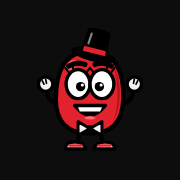
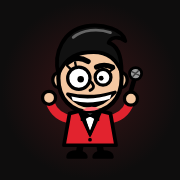
Nouvelle mascotte animateur et nouvel accueil
Mascotte redessinée en animateur de jeu télé extravagant, apparition
brutale (flash et secousse) à un emplacement tiré au hasard, page
d'accueil avec la mascotte en grand qui réagit au toucher, nouvelle
icône. Cache du service worker passé en v2.

Claude-Session: https://claude.ai/code/session_018y4Ztmge4fHGh2s4v4CH5W

Changed region(s): [[0.1944, 0.1389, 0.8056, 0.8333]]

diff --git a/index.html b/index.html
@@ -86,6 +86,27 @@ button:focus-visible, input:focus-visible { outline: 3px solid var(--ink); outli
 .mode .tag { font-family: var(--f-label); font-size: .7rem; text-transform: uppercase; letter-spacing: .08em; opacity: .85; }
 .fine { margin: 0; font-size: .78rem; color: var(--muted); text-align: center; }
 
+/* Accueil : titre, mascotte géante sur fond de rayons, choix du mode */
+.hero { display: grid; justify-items: center; gap: 6px; text-align: center; padding-top: 8px; }
+.hero-title { display: grid; justify-items: center; line-height: 1; gap: 2px; margin: 0; }
+.hero-title .t1 { font-size: clamp(1.6rem, 7vw, 2.6rem); letter-spacing: .04em; }
+.hero-title .t2 { font-family: var(--f-score); font-weight: 400; color: var(--red); font-size: clamp(3.6rem, 19vw, 7rem); transform: rotate(-4deg); text-shadow: 4px 5px 0 #000, -2px -2px 0 #000, 2px -2px 0 #000, -2px 2px 0 #000; }
+.hero-stage { overflow: hidden; position: relative; width: min(300px, 78vw); aspect-ratio: 1; display: grid; place-items: center; margin-top: 6px; }
+.rays { position: absolute; inset: 0; border-radius: 50%; background: repeating-conic-gradient(from 0deg, rgba(226,35,46,.55) 0deg 10deg, transparent 10deg 20deg); -webkit-mask: radial-gradient(circle, #000 25%, transparent 70%); mask: radial-gradient(circle, #000 25%, transparent 70%); animation: spin 18s linear infinite; }
+@keyframes spin { to { transform: rotate(360deg); } }
+.mascot.hero { position: relative; right: auto; bottom: auto; left: auto; top: auto; width: 74%; transform: none; pointer-events: auto; z-index: 1; background: none; border: 0; padding: 0; cursor: pointer; }
+.mascot.hero svg { filter: drop-shadow(6px 8px 0 rgba(0,0,0,.6)); }
+.mascot.hero .rig { animation: m-bob 2.4s ease-in-out infinite; }
+.mascot.hero.wave .arm-r { animation: m-wave .6s ease-in-out .4s infinite; }
+.mascot.hero.cheer .rig { animation: m-jump .6s ease-out 3; }
+.hero-bubble { position: relative; z-index: 2; margin-top: 14px; margin-bottom: -18px; max-width: min(280px, 80vw); background: var(--pill); color: var(--red); border: 3px solid #000; border-radius: 18px; padding: 10px 16px; font-family: var(--f-label); text-transform: uppercase; letter-spacing: .03em; font-size: .85rem; line-height: 1.25; box-shadow: 4px 5px 0 rgba(0,0,0,.55); }
+.hero-bubble::after { content: ""; position: absolute; left: 50%; bottom: -12px; width: 18px; height: 18px; margin-left: -9px; background: var(--pill); border-right: 3px solid #000; border-bottom: 3px solid #000; transform: rotate(45deg); }
+.hero-bubble.pop { animation: b-pop .3s cubic-bezier(.2,1.6,.4,1); }
+@keyframes m-bob { 0%, 100% { transform: translateY(0); } 50% { transform: translateY(-6px); } }
+.hero-tag { margin: 4px 0 0; font-weight: 800; color: var(--muted); font-size: 1rem; }
+.mode-line { font-weight: 600; font-size: .9rem; line-height: 1.4; }
+.mode { align-content: center; }
+
 /* Joueurs */
 .players { display: grid; gap: 10px; }
 .player-row { display: flex; gap: 10px; align-items: center; }
@@ -221,15 +242,34 @@ button:focus-visible, input:focus-visible { outline: 3px solid var(--ink); outli
 }
 /* Mascotte : surgit en bas à droite à chaque changement d'écran, réagit, puis repart */
 .mascot { position: fixed; right: 10px; bottom: calc(8px + env(safe-area-inset-bottom, 0px)); width: 104px; z-index: 50; pointer-events: none; transform: translateY(150%); }
-.mascot.show { animation: m-in .6s ease-out forwards; }
-.mascot.leave { animation: m-out .35s ease-in forwards; }
+.mascot.show { animation: m-in .32s cubic-bezier(.2,.9,.3,1) forwards; }
+.mascot .bubble { transform-origin: 100% 100%; }
+/* Emplacements tirés au hasard à chaque apparition ; à gauche, la mascotte est retournée et la bulle passe à droite */
+.mascot.pos-br, .mascot.pos-bl { top: auto; bottom: calc(8px + env(safe-area-inset-bottom, 0px)); }
+.mascot.pos-tr, .mascot.pos-tl { bottom: auto; top: calc(64px + env(safe-area-inset-top, 0px)); }
+.mascot.pos-mr, .mascot.pos-ml { bottom: auto; top: 42%; }
+.mascot.pos-br, .mascot.pos-tr, .mascot.pos-mr { right: 10px; left: auto; }
+.mascot.pos-bl, .mascot.pos-tl, .mascot.pos-ml { left: 10px; right: auto; }
+.mascot.pos-bl svg, .mascot.pos-tl svg, .mascot.pos-ml svg { transform: scaleX(-1); }
+.mascot.pos-bl .bubble, .mascot.pos-tl .bubble, .mascot.pos-ml .bubble { right: auto; left: 76%; border-radius: 16px 16px 16px 4px; transform-origin: 0 100%; }
+.mascot.pos-tr .bubble, .mascot.pos-tl .bubble { bottom: auto; top: 86%; }
+.mascot.pos-tr .bubble { border-radius: 16px 4px 16px 16px; transform-origin: 100% 0; }
+.mascot.pos-tl .bubble { border-radius: 4px 16px 16px 16px; transform-origin: 0 0; }
+.mascot.show .bubble { animation: b-pop .25s cubic-bezier(.2,1.6,.4,1) .12s both; }
+@keyframes b-pop { from { transform: scale(0) rotate(-12deg); } to { transform: scale(1) rotate(0); } }
+.mascot::before { content: ""; position: absolute; inset: -30% -20% -10%; background: radial-gradient(circle, rgba(255,255,255,.9) 0 18%, rgba(226,35,46,.6) 35%, transparent 62%); transform: scale(0); opacity: 0; pointer-events: none; }
+.mascot.show::before { animation: m-flash .35s ease-out; }
+@keyframes m-flash { 0% { transform: scale(.2); opacity: 1; } 100% { transform: scale(1.6); opacity: 0; } }
+body.jolt #app { animation: jolt .28s linear; }
+@keyframes jolt { 0%, 100% { transform: translate(0, 0); } 20% { transform: translate(-6px, 3px); } 40% { transform: translate(5px, -4px); } 60% { transform: translate(-4px, 2px); } 80% { transform: translate(3px, -1px); } }
+.mascot.leave { animation: m-out .18s ease-in forwards; }
 .mascot .bubble { transition: opacity .15s, transform .15s; }
 .mascot.leave .bubble { opacity: 0; transform: scale(.6); }
 .mascot svg { width: 100%; height: auto; display: block; overflow: visible; filter: drop-shadow(4px 5px 0 rgba(0,0,0,.55)); }
 .mascot .bubble { position: absolute; right: 76%; bottom: 84%; border: 3px solid #000; width: max-content; max-width: min(220px, 60vw); background: var(--pill); color: var(--red); font-family: var(--f-label); text-transform: uppercase; font-size: .78rem; letter-spacing: .03em; line-height: 1.25; padding: 10px 14px; border-radius: 16px 16px 4px 16px; box-shadow: 0 8px 20px rgba(0,0,0,.55); }
 .mascot .rig { transform-box: view-box; transform-origin: 62px 142px; }
-.mascot .arm-l { transform-box: view-box; transform-origin: 27px 88px; transition: transform .3s; }
-.mascot .arm-r { transform-box: view-box; transform-origin: 97px 88px; transition: transform .3s; }
+.mascot .arm-l { transform-box: view-box; transform-origin: 42px 102px; transition: transform .3s; }
+.mascot .arm-r { transform-box: view-box; transform-origin: 82px 102px; transition: transform .3s; }
 .mascot .brows, .mascot .pupils { transition: transform .3s; }
 .mascot .m-open, .mascot .m-sad, .mascot .m-wavy, .mascot .drunk-only { display: none; }
 .mascot.drunk .drunk-only { display: inline; }
@@ -246,8 +286,8 @@ button:focus-visible, input:focus-visible { outline: 3px solid var(--ink); outli
 @keyframes m-sway { 0%, 100% { transform: rotate(-9deg) translateX(-2px); } 50% { transform: rotate(8deg) translateX(3px); } }
 @keyframes m-twinkle { 0%, 100% { transform: scale(0) rotate(0); } 50% { transform: scale(1.2) rotate(45deg); } }
 @keyframes m-hic { 0% { transform: translateY(6px) scale(.4); opacity: 0; } 30% { opacity: 1; } 100% { transform: translateY(-14px) scale(1); opacity: 0; } }
-@keyframes m-in { 0% { transform: translateY(150%) rotate(-200deg) scale(.5); } 60% { transform: translateY(-8%) rotate(12deg) scale(1.15, .9); } 80% { transform: translateY(0) rotate(-4deg) scale(.95, 1.06); } 100% { transform: translateY(0) rotate(0) scale(1); } }
-@keyframes m-out { 0% { transform: translateY(0) scale(1); } 30% { transform: translateY(-10%) scale(.9, 1.12); } 100% { transform: translateY(260%); visibility: hidden; } }
+@keyframes m-in { 0% { transform: scale(.1) rotate(-25deg); } 55% { transform: scale(1.45) rotate(8deg); } 75% { transform: scale(.88, 1.12) rotate(-4deg); } 90% { transform: scale(1.06, .95); } 100% { transform: scale(1) rotate(0); } }
+@keyframes m-out { 0% { transform: scale(1); } 40% { transform: scale(1.2, .8); } 100% { transform: scale(0) rotate(30deg); visibility: hidden; } }
 @keyframes m-wave { 0%, 100% { transform: rotate(-10deg); } 50% { transform: rotate(25deg); } }
 @keyframes m-jump { 0%, 100% { transform: translateY(0) scaleY(1); } 15% { transform: translateY(2px) scaleY(.92); } 45% { transform: translateY(-16px) scaleY(1.04); } 70% { transform: translateY(0) scaleY(.96); } }
 @keyframes m-shake { 0%, 100% { transform: translateX(0) rotate(0); } 20% { transform: translateX(-4px) rotate(-4deg); } 40% { transform: translateX(4px) rotate(4deg); } 60% { transform: translateX(-3px) rotate(-3deg); } 80% { transform: translateX(3px) rotate(2deg); } }
@@ -271,13 +311,14 @@ button:focus-visible, input:focus-visible { outline: 3px solid var(--ink); outli
 .mascot.sad .arm-l { transform: rotate(-115deg); } .mascot.sad .arm-r { transform: rotate(115deg); }
 .mascot.sad .rig { animation: m-tilt 1.6s ease-in-out .3s 1; }
 .mascot.point .arm-r { transform: rotate(-55deg); }
-.mascot .brow-l { transform-box: view-box; transform-origin: 46px 41px; transition: transform .3s; }
-.mascot .brow-r { transform-box: view-box; transform-origin: 78px 41px; transition: transform .3s; }
+.mascot .brow-l { transform-box: view-box; transform-origin: 49px 38px; transition: transform .3s; }
+.mascot .brow-r { transform-box: view-box; transform-origin: 77px 44px; transition: transform .3s; }
 @media (max-width: 640px) { .mascot { width: 82px; } .mascot .bubble { font-size: .7rem; } }
 
 @media (prefers-reduced-motion: reduce) {
   .cell { transition: none; }
-  .mascot, .mascot * { animation: none !important; }
+  .mascot, .mascot *, .mascot::before, body.jolt #app, .rays { animation: none !important; }
+  .mascot.hero { opacity: 1; }
   .mascot { transform: none; opacity: 0; transition: opacity .2s; }
   .mascot.show { opacity: 1; }
 }
@@ -289,56 +330,57 @@ button:focus-visible, input:focus-visible { outline: 3px solid var(--ink); outli
   <div class="bubble" id="mascotLine"></div>
   <svg viewBox="-6 -14 136 168">
     <g class="sway"><g class="rig" stroke="#000" stroke-linecap="round" stroke-linejoin="round">
-      <!-- jambes et baskets -->
-      <path d="M50 118 L47 136 M74 118 L77 136" stroke-width="5" fill="none"/>
-      <path d="M33 140 Q33 131 46 132 Q56 133 57 140 Z" fill="#f4f2f0" stroke-width="4"/>
-      <path d="M67 140 Q68 133 78 132 Q91 131 91 140 Z" fill="#f4f2f0" stroke-width="4"/>
-      <path d="M38 136 L52 136 M72 136 L86 136" stroke="#e2232e" stroke-width="3"/>
-      <!-- bras en caoutchouc et gants -->
-      <g class="arm-l"><path d="M27 88 Q12 86 10 68" stroke-width="5" fill="none"/><circle cx="10" cy="64" r="8.5" fill="#f4f2f0" stroke-width="4"/><path d="M6 60 L8 64 M10 58 L11 63" stroke-width="2" fill="none"/></g>
-      <g class="arm-r"><path d="M97 88 Q112 86 114 68" stroke-width="5" fill="none"/><circle cx="114" cy="64" r="8.5" fill="#f4f2f0" stroke-width="4"/><path d="M118 60 L116 64 M114 58 L113 63" stroke-width="2" fill="none"/></g>
-      <!-- corps en haricot -->
-      <path d="M62 26 C94 26 102 52 101 82 C100 110 86 122 62 122 C38 122 22 110 22 82 C22 52 30 26 62 26 Z" fill="#e2232e" stroke-width="5"/>
-      <path d="M90 44 C99 60 100 92 88 110 C96 96 96 64 90 44 Z" fill="#b3121b" stroke="none"/>
-      <ellipse cx="40" cy="42" rx="8" ry="4.5" fill="#fff" opacity=".35" stroke="none" transform="rotate(-35 40 42)"/>
-      <!-- chapeau haut-de-forme penché -->
-      <g transform="rotate(14 66 30)">
-        <ellipse cx="66" cy="30" rx="25" ry="6" fill="#000" stroke-width="3"/>
-        <path d="M52 30 L54 2 Q66 -2 78 2 L80 30 Z" fill="#000" stroke-width="3"/>
-        <path d="M53 22 L79 22 L79.6 28 L52.6 28 Z" fill="#e2232e" stroke="none"/>
-        <path d="M58 6 L57 18" stroke="#fff" stroke-width="2.5" opacity=".5" fill="none"/>
-      </g>
-      <!-- grands yeux -->
-      <ellipse cx="48" cy="64" rx="14" ry="17" fill="#fff" stroke-width="4"/>
-      <ellipse cx="76" cy="64" rx="14" ry="17" fill="#fff" stroke-width="4"/>
-      <g class="pupils" stroke="none"><circle cx="51" cy="67" r="5.5" fill="#000"/><circle cx="73" cy="67" r="5.5" fill="#000"/><circle cx="53" cy="65" r="1.8" fill="#fff"/><circle cx="75" cy="65" r="1.8" fill="#fff"/></g>
-      <path d="M37 50 L33 45 M43 47.5 L41 42 M58 50 L62 45 M66 50 L62 45 M81 47.5 L83 42 M87 50 L91 45" stroke-width="2.5" fill="none" class="lashes"/>
+      <!-- jambes et chaussures vernies -->
+      <path d="M52 128 L50 140 M72 128 L74 140" stroke-width="7" fill="none"/>
+      <path d="M38 143 Q38 136 50 137 Q58 138 58 143 Z M66 143 Q66 138 74 137 Q86 136 86 143 Z" fill="#000" stroke-width="3"/>
+      <!-- bras : main gauche gantée, main droite tenant le micro -->
+      <g class="arm-l"><path d="M42 102 Q25 100 19 84" stroke="#e2232e" stroke-width="9" fill="none"/><path d="M42 102 Q25 100 19 84" stroke-width="2" fill="none" opacity="0"/><circle cx="18" cy="79" r="7" fill="#f4c7a1" stroke-width="3.5"/></g>
+      <g class="arm-r"><path d="M82 102 Q99 100 105 84" stroke="#e2232e" stroke-width="9" fill="none"/>
+        <path d="M104 78 L110 58" stroke-width="5" fill="none"/><circle cx="111" cy="53" r="6.5" fill="#9a9a9a" stroke-width="3"/><path d="M107 51 L115 55 M108 56 L114 50" stroke-width="1.5" fill="none" opacity=".6"/>
+        <circle cx="106" cy="80" r="7" fill="#f4c7a1" stroke-width="3.5"/></g>
+      <!-- veste de présentateur -->
+      <path d="M40 96 Q62 88 84 96 L90 130 L34 130 Z" fill="#e2232e" stroke-width="4"/>
+      <path d="M52 94 L62 118 L72 94 Z" fill="#fff" stroke-width="3"/>
+      <path d="M50 94 L62 120 L56 100 Z M74 94 L62 120 L68 100 Z" fill="#000" stroke-width="2"/>
+      <circle cx="62" cy="124" r="2" fill="#000" stroke="none"/>
+      <path d="M62 98 L53 93 L53 103 Z M62 98 L71 93 L71 103 Z" fill="#000" stroke-width="2"/>
+      <!-- oreilles et tête -->
+      <ellipse cx="28" cy="60" rx="6" ry="8" fill="#f4c7a1" stroke-width="3.5"/>
+      <ellipse cx="96" cy="60" rx="6" ry="8" fill="#f4c7a1" stroke-width="3.5"/>
+      <path d="M62 22 C88 22 96 40 96 58 C96 80 82 94 62 94 C42 94 28 80 28 58 C28 40 36 22 62 22 Z" fill="#f4c7a1" stroke-width="4.5"/>
+      <!-- banane gominée -->
+      <path d="M28 54 C22 30 34 6 58 2 C76 -1 98 6 100 18 C92 12 84 14 82 20 C90 22 96 32 96 52 C90 36 80 30 66 30 C50 30 36 34 28 54 Z" fill="#111" stroke-width="4"/>
+      <path d="M44 14 C54 6 70 4 84 9" stroke="#fff" stroke-width="3" fill="none" opacity=".35"/>
+      <!-- yeux dépareillés -->
+      <circle cx="50" cy="58" r="12" fill="#fff" stroke-width="3.5"/>
+      <circle cx="76" cy="57" r="8.5" fill="#fff" stroke-width="3.5"/>
+      <g class="pupils" stroke="none"><circle cx="52" cy="59" r="3.5" fill="#000"/><circle cx="74" cy="58" r="2.6" fill="#000"/></g>
+      <path class="lashes" d="M41 48 L37 44 M47 46 L46 41 M84 50 L88 47" stroke-width="2.5" fill="none"/>
       <g class="drunk-only">
-        <path d="M34 63 C34 42 62 42 62 63 Q48 58 34 63 Z" fill="#e2232e" stroke-width="3.5"/>
-        <path d="M62 63 C62 42 90 42 90 63 Q76 58 62 63 Z" fill="#e2232e" stroke-width="3.5"/>
-        <ellipse cx="33" cy="86" rx="7" ry="4.5" fill="#ff8fa0" stroke="none" opacity=".9"/>
-        <ellipse cx="91" cy="86" rx="7" ry="4.5" fill="#ff8fa0" stroke="none" opacity=".9"/>
+        <path d="M37.5 58 A12.5 12.5 0 0 1 62.5 58 Q50 54 37.5 58 Z" fill="#f4c7a1" stroke-width="3"/>
+        <path d="M67 57 A9 9 0 0 1 85 57 Q76 54 67 57 Z" fill="#f4c7a1" stroke-width="3"/>
+        <ellipse cx="38" cy="76" rx="7" ry="4.5" fill="#ff7f8f" stroke="none" opacity=".9"/>
+        <ellipse cx="88" cy="74" rx="6" ry="4" fill="#ff7f8f" stroke="none" opacity=".9"/>
       </g>
       <g class="brows">
-        <path class="brow-l" d="M37 43 Q46 37 56 41" stroke-width="6" fill="none"/>
-        <path class="brow-r" d="M68 41 Q78 37 87 43" stroke-width="6" fill="none"/>
+        <path class="brow-l" d="M38 41 Q48 33 60 40" stroke-width="5.5" fill="none"/>
+        <path class="brow-r" d="M69 46 Q77 42 86 46" stroke-width="5.5" fill="none"/>
       </g>
+      <!-- nez -->
+      <path d="M63 62 Q69 68 62 71" stroke-width="3" fill="none"/>
       <!-- bouches -->
-      <g class="m-smile"><path d="M44 89 Q62 112 80 89 Z" fill="#000" stroke-width="4"/><path d="M48 91 L76 91 L74 96 L50 96 Z" fill="#fff" stroke="none"/><path d="M55 104 Q62 99 69 104 Q62 107 55 104 Z" fill="#ff6b73" stroke="none"/></g>
-      <g class="m-open"><ellipse cx="62" cy="96" rx="9" ry="11" fill="#000" stroke-width="3"/><ellipse cx="62" cy="102" rx="5" ry="3.5" fill="#ff6b73" stroke="none"/></g>
-      <path class="m-sad" d="M49 101 Q62 88 75 101" stroke-width="4.5" fill="none"/>
-      <path class="m-wavy" d="M48 96 q3.5 -4 7 0 t7 0 t7 0 t7 0" stroke-width="4" fill="none"/>
-      <!-- nœud papillon -->
-      <path d="M62 116 L48 108 L48 124 Z M62 116 L76 108 L76 124 Z" fill="#f4f2f0" stroke-width="3.5"/>
-      <circle cx="62" cy="116" r="4" fill="#000" stroke="none"/>
+      <g class="m-smile"><path d="M38 75 Q62 102 89 73 Q62 81 38 75 Z" fill="#000" stroke-width="3.5"/><path d="M42 77.5 Q62 83 85 75.5 L83.5 80 Q62 87 43.5 82 Z" fill="#fff" stroke="none"/><path d="M54 92 Q63 86 72 91 Q63 95 54 92 Z" fill="#ff6b73" stroke="none"/></g>
+      <g class="m-open"><ellipse cx="63" cy="84" rx="10" ry="11" fill="#000" stroke-width="3"/><ellipse cx="63" cy="90" rx="6" ry="4" fill="#ff6b73" stroke="none"/></g>
+      <path class="m-sad" d="M48 90 Q63 77 78 90" stroke-width="4.5" fill="none"/>
+      <path class="m-wavy" d="M46 84 q4 -4 8 0 t8 0 t8 0 t8 0" stroke-width="4" fill="none"/>
     </g></g>
     <g class="sparkles">
       <g transform="translate(4 18)"><path class="spark" d="M0 -9 L2.5 -2.5 L9 0 L2.5 2.5 L0 9 L-2.5 2.5 L-9 0 L-2.5 -2.5 Z" fill="#f4f2f0" stroke="#000" stroke-width="2"/></g>
-      <g transform="translate(118 10)"><path class="spark s2" d="M0 -7 L2 -2 L7 0 L2 2 L0 7 L-2 2 L-7 0 L-2 -2 Z" fill="#e2232e" stroke="#000" stroke-width="2"/></g>
-      <g transform="translate(124 104)"><path class="spark s3" d="M0 -8 L2 -2 L8 0 L2 2 L0 8 L-2 2 L-8 0 L-2 -2 Z" fill="#f4f2f0" stroke="#000" stroke-width="2"/></g>
+      <g transform="translate(122 24)"><path class="spark s2" d="M0 -7 L2 -2 L7 0 L2 2 L0 7 L-2 2 L-7 0 L-2 -2 Z" fill="#e2232e" stroke="#000" stroke-width="2"/></g>
+      <g transform="translate(124 108)"><path class="spark s3" d="M0 -8 L2 -2 L8 0 L2 2 L0 8 L-2 2 L-8 0 L-2 -2 Z" fill="#f4f2f0" stroke="#000" stroke-width="2"/></g>
     </g>
     <g class="drunk-only hic" fill="#f4f2f0" stroke="#000" stroke-width="2">
-      <circle cx="104" cy="40" r="4"/><circle class="h2" cx="110" cy="30" r="5.5"/><circle class="h3" cx="104" cy="18" r="3"/>
+      <circle cx="100" cy="30" r="4"/><circle class="h2" cx="108" cy="18" r="5.5"/><circle class="h3" cx="102" cy="4" r="3"/>
     </g>
   </svg>
 </div>
@@ -1340,7 +1382,8 @@ function render() {
 /* ---------- Mascotte ---------- */
 const mascotEl = document.getElementById("mascot");
 const mascotLine = document.getElementById("mascotLine");
-let mascotKey = null, mascotTimer = null;
+let mascotKey = null, mascotTimer = null, mascotPos = "pos-br";
+const POSITIONS = ["pos-br", "pos-bl", "pos-tr", "pos-tl", "pos-mr", "pos-ml"];
 
 // Humeur et réplique selon l'écran affiché
 function mood() {
@@ -1377,14 +1420,19 @@ function react() {
   const key = S.rules ? "rules" : [S.screen, S.turn, S.current ? S.current.t + "-" + S.current.c : ""].join("|");
   if (key === mascotKey) return;
   mascotKey = key;
-  const [m, line] = mood();
   clearTimeout(mascotTimer);
+  if (S.screen === "home" && !S.rules) { mascotEl.className = "mascot"; return; } // la mascotte est déjà en grand sur l'accueil
+  const [m, line] = mood();
   const drunk = hard() && S.screen !== "home";
   mascotLine.textContent = drunk && line ? slur(line) : line;
   mascotLine.hidden = !line;
-  mascotEl.className = "mascot " + m + (drunk ? " drunk" : "");
+  mascotPos = pick(POSITIONS.filter(x => x !== mascotPos));
+  mascotEl.className = "mascot " + m + (drunk ? " drunk" : "") + " " + mascotPos;
   void mascotEl.offsetWidth; // relance l'animation d'entrée
   mascotEl.classList.add("show");
+  // Petite secousse de l'écran à l'arrivée de la mascotte
+  document.body.classList.remove("jolt");
+  setTimeout(() => { document.body.classList.add("jolt"); setTimeout(() => document.body.classList.remove("jolt"), 300); }, 170);
   mascotTimer = setTimeout(() => {
     mascotEl.classList.replace("show", "leave");
   }, 2600);
@@ -1443,31 +1491,28 @@ function rules() {
 function home() {
   const saved = load();
   const resume = saved && ["board", "question", "verdict"].includes(saved.screen);
-  return `<section class="screen">
-    <div class="stack">
-      <span class="eyebrow">Quiz entre amis</span>
-      <h1>Le Risque <span>Tout</span></h1>
-      <p class="lead">Choisissez une question de x1 à x5 selon la difficulté. Bonne réponse, vous gagnez. Mauvaise réponse, vous perdez. Et si vous osez le Risque Tout…</p>
+  return `<section class="screen home">
+    <div class="hero">
+      <h1 class="hero-title"><span class="t1">Le Risque</span><span class="t2">Tout</span></h1>
+      <div class="hero-bubble pop" id="heroLine">Prêts à tout risquer ?</div>
+      <div class="hero-stage">
+        <div class="rays" aria-hidden="true"></div>
+        <button class="mascot hero show wave" id="heroMascot" aria-label="Faire réagir la mascotte">
+          ${document.querySelector("#mascot svg").outerHTML}
+        </button>
+      </div>
+      <p class="hero-tag">Le quiz où l'on peut tout gagner… ou tout perdre.</p>
     </div>
     <div class="modes">
       <button class="mode" data-mode="classique">
-        <span class="tag">Points</span>
+        <span class="tag">Des points</span>
         <span class="name">Classique</span>
-        <ul>
-          <li>Bonne réponse : + les points de la case</li>
-          <li>Mauvaise réponse : − les points de la case</li>
-          <li>Risque Tout : score doublé, ou remis à zéro</li>
-        </ul>
+        <span class="mode-line">Gagnez des points, doublez-les au Risque Tout… ou retombez à zéro.</span>
       </button>
       <button class="mode hard" data-mode="hardcore">
         <span class="tag">Jeu à boire</span>
         <span class="name">Hardcore</span>
-        <ul>
-          <li>Bonne réponse : vous distribuez les gorgées</li>
-          <li>Mauvaise réponse : elles s'ajoutent à votre reste à boire</li>
-          <li>Risque Tout : un cul sec, donné ou reçu</li>
-          <li>Mega Risque Tout : reste à boire effacé, ou doublé</li>
-        </ul>
+        <span class="mode-line">Des gorgées à donner ou à boire, des culs secs et le Mega Risque Tout.</span>
       </button>
     </div>
     <div class="actions">
@@ -1476,6 +1521,24 @@ function home() {
     </div>
     <p class="fine">Mode Hardcore réservé aux majeurs. L'abus d'alcool est dangereux pour la santé, à consommer avec modération.</p>
   </section>`;
+}
+
+// Mascotte géante de l'accueil : on la touche, elle réagit
+const HERO_MOODS = [
+  ["cheer", "On y va ?!"], ["shock", "Tu vas tout risquer ?"], ["think", "J'ai une question pour toi…"],
+  ["cheer", "Le maître du jeu, c'est le patron !"], ["shock", "Pas sur le nez !"], ["point", "Choisis ton mode, là, en dessous !"],
+  ["sad", "Personne ne veut jouer avec moi ?"], ["wave", "Coucou !"],
+];
+function poke() {
+  const el = document.getElementById("heroMascot");
+  if (!el) return;
+  const [m, line] = pick(HERO_MOODS.filter(x => x[1] !== document.getElementById("heroLine").textContent));
+  const bubble = document.getElementById("heroLine");
+  bubble.textContent = line;
+  bubble.classList.remove("pop"); void bubble.offsetWidth; bubble.classList.add("pop");
+  el.className = "mascot hero " + m;
+  void el.offsetWidth;
+  el.classList.add("show");
 }
 
 function players() {
@@ -1804,6 +1867,8 @@ function answer(ok) {
 
 function bind() {
   app.querySelectorAll("[data-act]").forEach(b => b.onclick = ACTS[b.dataset.act]);
+  const hero = document.getElementById("heroMascot");
+  if (hero) hero.onclick = poke;
   app.querySelectorAll("[data-mode]").forEach(b => b.onclick = () => { const p = S.players; S = fresh(); S.players = p; S.mode = b.dataset.mode; go("players"); });
   app.querySelectorAll("[data-player]").forEach(inp => inp.oninput = () => { S.players[+inp.dataset.player] = inp.value; save(); });
   app.querySelectorAll("[data-remove]").forEach(b => b.onclick = () => { S.players.splice(+b.dataset.remove, 1); refresh(); });

diff --git a/sw.js b/sw.js
@@ -1,6 +1,6 @@
 // Service worker : le jeu fonctionne hors connexion après la première visite.
 // Changer VERSION à chaque mise à jour du jeu pour forcer le rafraîchissement du cache.
-const VERSION = "risque-tout-v1";
+const VERSION = "risque-tout-v2";
 const SHELL = ["./", "index.html", "manifest.webmanifest", "icons/icon-192.png", "icons/icon-512.png", "icons/apple-touch-icon.png"];
 
 self.addEventListener("install", e => {

diff --git a/README.md b/README.md
@@ -26,7 +26,7 @@ Le mode Hardcore est réservé aux majeurs. L'abus d'alcool est dangereux pour l
 - Valeurs des cases réglables (points, gorgées, culs secs du Risque Tout)
 - Scores et « reste à boire » ajustables à la main
 - Thèmes déjà joués signalés (indicateur masquable, historique effaçable)
-- Mascotte animée, éméchée en mode Hardcore
+- Mascotte animateur de jeu télé : en grand sur l'accueil (elle réagit quand on la touche), puis surgit à chaque écran à un endroit différent ; éméchée en mode Hardcore
 - Web app installable (« Ajouter à l'écran d'accueil ») qui fonctionne hors connexion
 
 ## Fichiers
